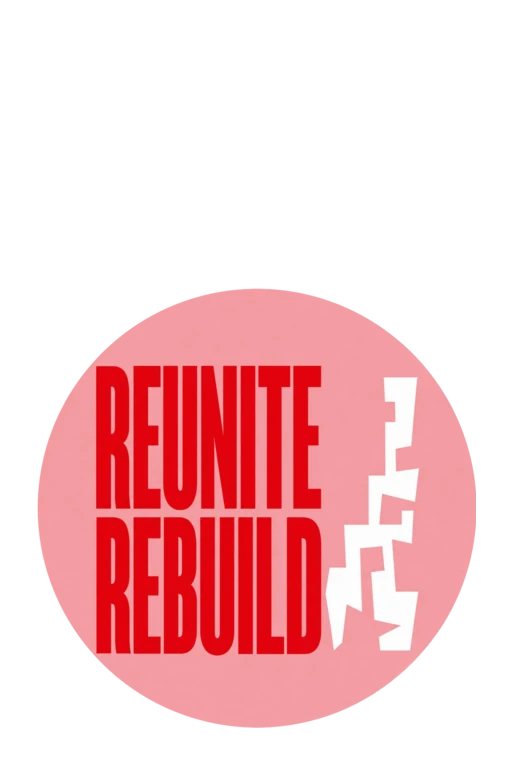
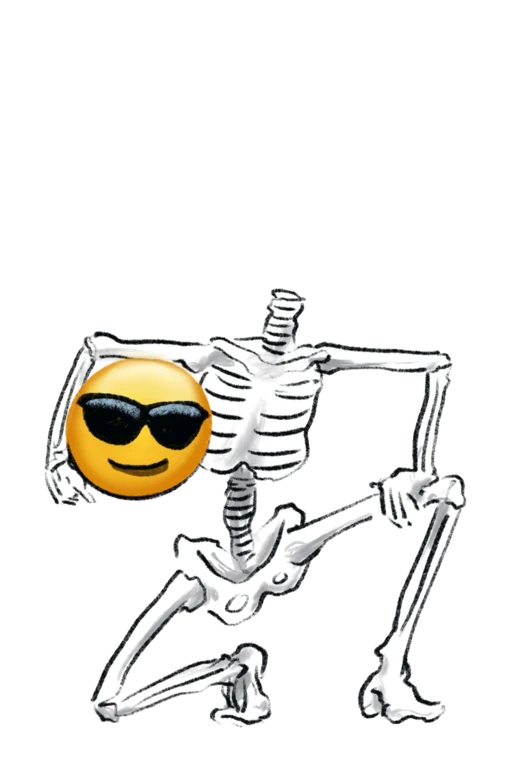
Use the sunglasses skeleton as the Wilder Journal #3 cover
Harrison's transparent artwork replaces the Reunite Rebuild sticker,
placed the same way: right of the hero (title side clear), low on
mobile, centred in the social and thumbnail squares. Alt text in both
languages says what the picture shows.

diff --git a/_volumes/es/wilder-journal-03.md b/_volumes/es/wilder-journal-03.md
@@ -5,7 +5,7 @@ layout: journal
 title: "Wilder Journal #3"
 uid: wilder-journal-3
 cover:
-  alt: "Reunite Rebuild — Wilder Journal #3 by Platoniq"
+  alt: "Un esqueleto dibujado a lápiz posando, con un emoji con gafas de sol por cabeza — Wilder Journal #3 de Platoniq"
   credits: "Wilder Journal #3 by Platoniq"
   path: /media/volumes/heroes/cover-03.webp
   mobile: /media/volumes/mobile/cover-03.webp
@@ -15,5 +15,5 @@ volume-number: 3
 description: "Wilder Journal #3 by Platoniq"
 image:
   path: /media/volumes/social/cover-03.webp
-  alt: "Reunite Rebuild — Wilder Journal #3 by Platoniq"
+  alt: "Un esqueleto dibujado a lápiz posando, con un emoji con gafas de sol por cabeza — Wilder Journal #3 de Platoniq"
 ---

diff --git a/_volumes/en/wilder-journal-03.md b/_volumes/en/wilder-journal-03.md
@@ -5,7 +5,7 @@ layout: journal
 title: "Wilder Journal #3"
 uid: wilder-journal-3
 cover:
-  alt: "Reunite Rebuild — Wilder Journal #3 by Platoniq"
+  alt: "A pencil-sketched skeleton striking a pose, with a sunglasses emoji for a head — Wilder Journal #3 by Platoniq"
   credits: "Wilder Journal #3 by Platoniq"
   path: /media/volumes/heroes/cover-03.webp
   mobile: /media/volumes/mobile/cover-03.webp
@@ -15,5 +15,5 @@ volume-number: 3
 description: "Wilder Journal #3 by Platoniq"
 image:
   path: /media/volumes/social/cover-03.webp
-  alt: "Reunite Rebuild — Wilder Journal #3 by Platoniq"
+  alt: "A pencil-sketched skeleton striking a pose, with a sunglasses emoji for a head — Wilder Journal #3 by Platoniq"
 ---
